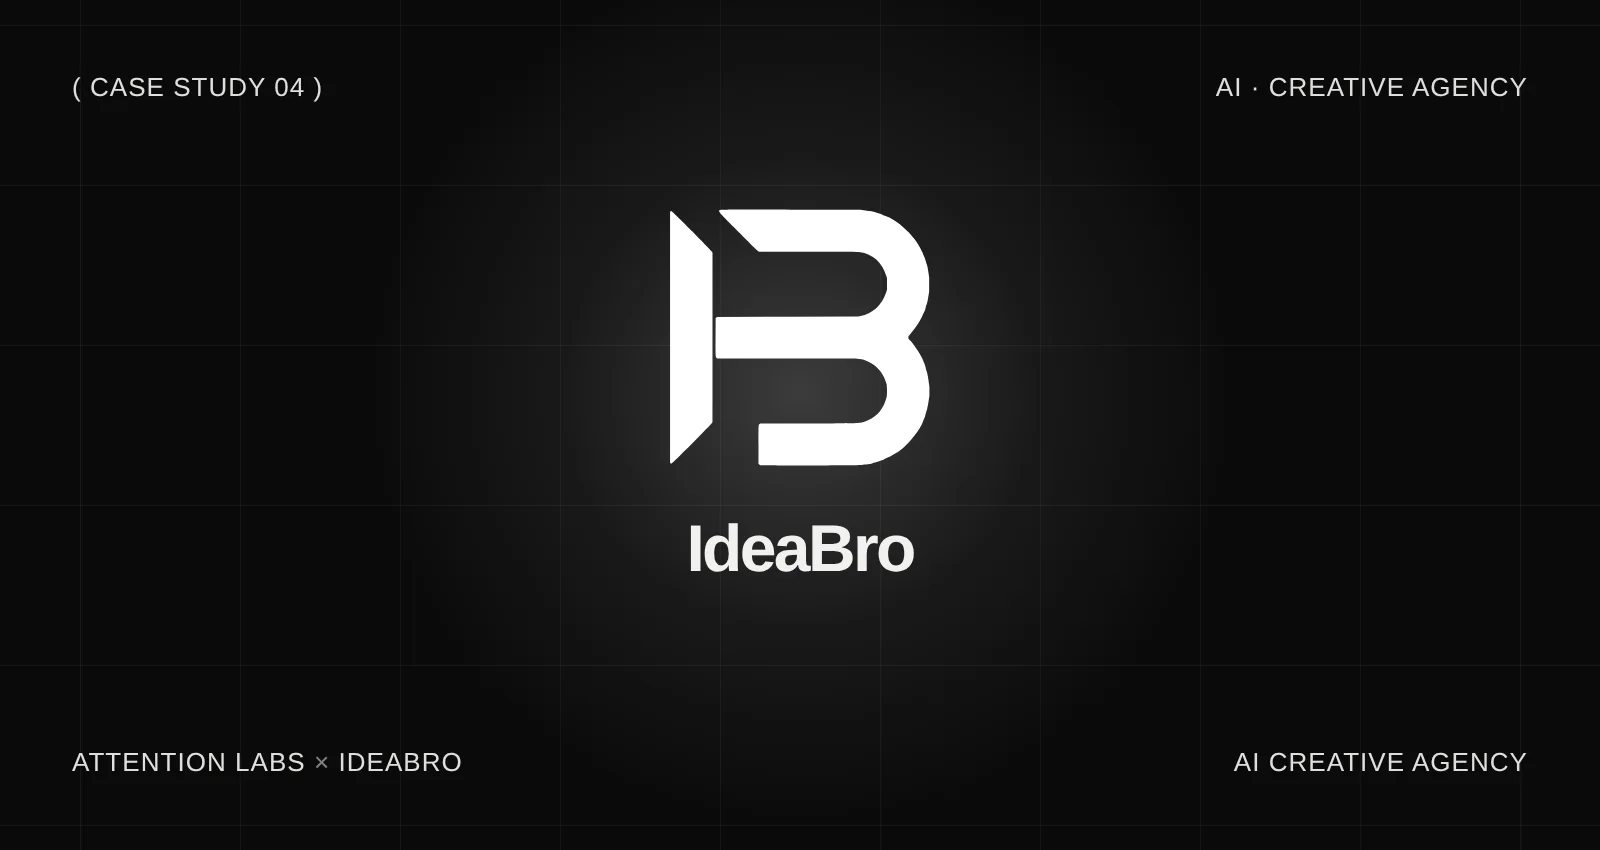
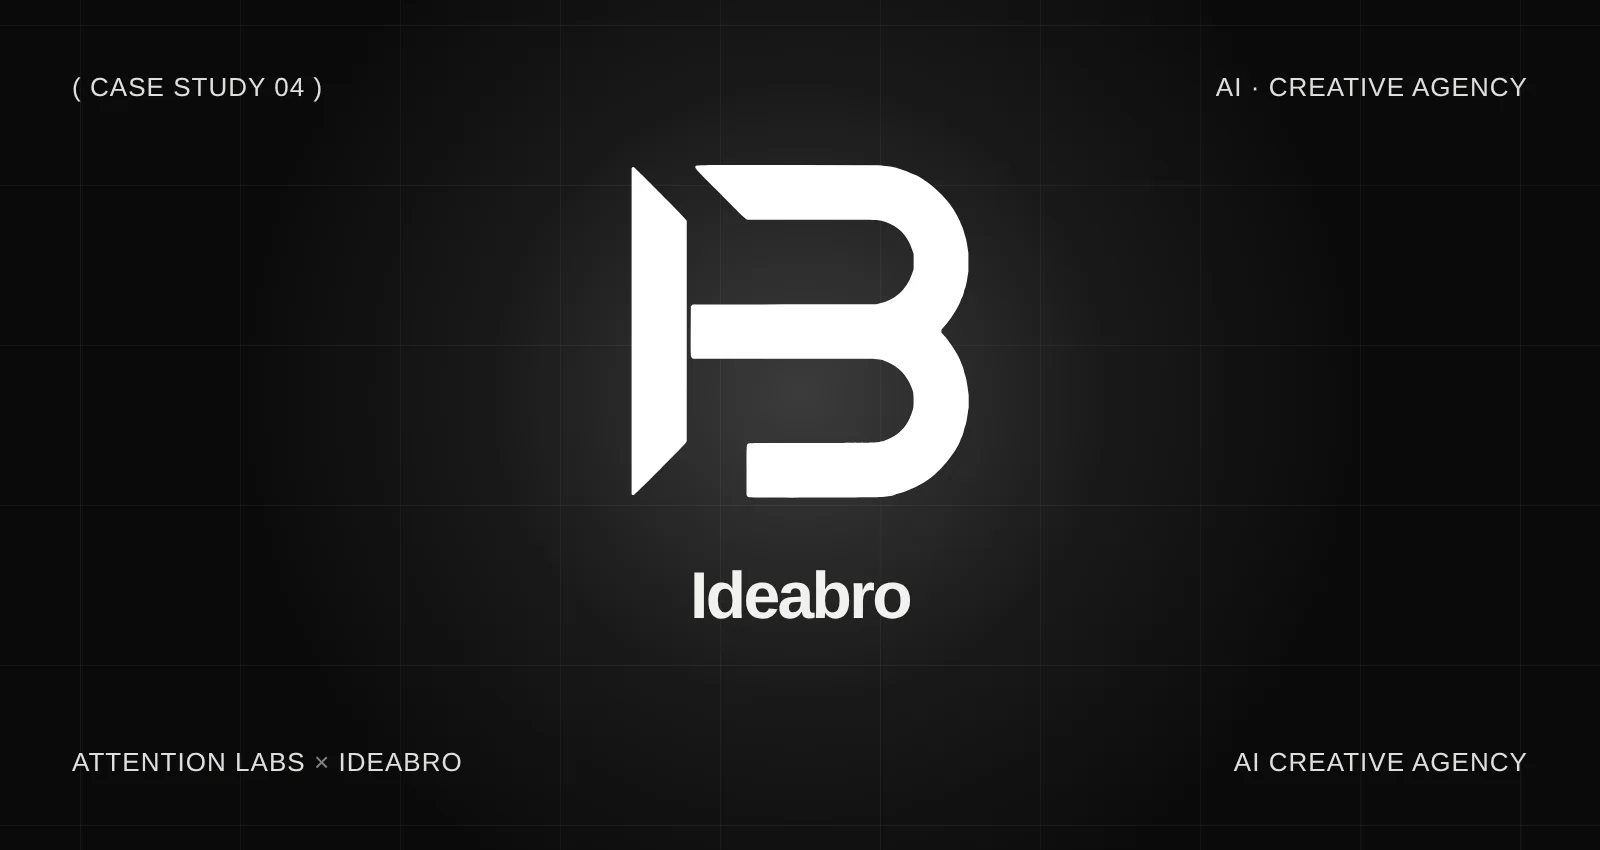
Spell Ideabro with a lowercase b
Update the client name in the case study copy, page titles and both
Ideabro cover images.

Claude-Session: https://claude.ai/code/session_01SGFKi4VfWtXzyXsmJPxadf

Changed region(s): [[0.375, 0.1835, 0.625, 0.7341]]

diff --git a/dist/case-studies/ideabro/index.html b/dist/case-studies/ideabro/index.html
@@ -3,14 +3,14 @@
 <head>
 <meta charset="utf-8">
 <meta name="viewport" content="width=device-width, initial-scale=1, viewport-fit=cover">
-<title>IdeaBro — Attention Labs</title>
-<meta name="description" content="IdeaBro: Showing what an AI creative agency can do — with content that proves it.">
+<title>Ideabro — Attention Labs</title>
+<meta name="description" content="Ideabro: Showing what an AI creative agency can do — with content that proves it.">
 <meta name="theme-color" content="#F1F1EF">
 <link rel="canonical" href="https://www.attentionlabs.com/case-studies/ideabro/">
 <meta property="og:type" content="website">
 <meta property="og:site_name" content="Attention Labs">
-<meta property="og:title" content="IdeaBro — Attention Labs">
-<meta property="og:description" content="IdeaBro: Showing what an AI creative agency can do — with content that proves it.">
+<meta property="og:title" content="Ideabro — Attention Labs">
+<meta property="og:description" content="Ideabro: Showing what an AI creative agency can do — with content that proves it.">
 <meta property="og:url" content="https://www.attentionlabs.com/case-studies/ideabro/">
 <meta property="og:image" content="https://www.attentionlabs.com/assets/img/og.png">
 <meta name="twitter:card" content="summary_large_image">
@@ -19,12 +19,12 @@
 <link rel="apple-touch-icon" href="/assets/img/apple-touch-icon.png">
 <link rel="manifest" href="/site.webmanifest">
 <link rel="preload" href="/assets/fonts/inter-tight-latin.woff2" as="font" type="font/woff2" crossorigin>
-<link rel="stylesheet" href="/assets/css/style.css?v=3fff7aef">
+<link rel="stylesheet" href="/assets/css/style.css?v=8ad08556">
 <script>document.documentElement.classList.add('js');</script>
 <script type="speculationrules">{"prerender":[{"where":{"and":[{"href_matches":"/*"},{"not":{"selector_matches":"[target=_blank], [download]"}}]},"eagerness":"moderate"}]}</script>
 
 </head>
-<body class="" data-page="IdeaBro">
+<body class="" data-page="Ideabro">
 <a class="skip" href="#main">Skip to content</a>
 
 <div class="cursor" aria-hidden="true"><span class="cursor__label" data-cursor-label></span></div>
@@ -68,18 +68,18 @@
 <section class="cs-hero container">
   <a class="back" href="/case-studies/"><span class="back__ico"><svg class="ico" viewBox="0 0 24 24" aria-hidden="true"><path d="M4 12h15M13 6l6 6-6 6" fill="none" stroke="currentColor" stroke-width="1.8" stroke-linecap="square"/></svg></span><span class="roll"><span class="roll__in" data-text="All case studies">All case studies</span></span></a>
   <div class="phero__top"><span class="label">( Case study 04 )</span><span class="label">AI · Creative agency</span></div>
-  <img class="cs-logo" src="/assets/img/logos/ideabro.svg" alt="IdeaBro logo" data-reveal="fade">
-  <h1 class="cs-hero__title" data-split>IdeaBro</h1>
+  <img class="cs-logo" src="/assets/img/logos/ideabro.svg" alt="Ideabro logo" data-reveal="fade" style="--s:1.3">
+  <h1 class="cs-hero__title" data-split>Ideabro</h1>
   <div class="phero__row"><span></span><p class="phero__lead" data-reveal="fade">Showing what an AI creative agency can do — with content that proves it.</p></div>
   <dl class="cs-meta" data-reveal="fade">
-    <div><dt>Client</dt><dd>IdeaBro</dd></div>
+    <div><dt>Client</dt><dd>Ideabro</dd></div>
     <div><dt>Sector</dt><dd>AI · Creative agency</dd></div>
     <div><dt>Platforms</dt><dd>Instagram · YouTube</dd></div>
     <div><dt>Services</dt><dd>Content strategy, Short-form video, Social growth, Brand storytelling</dd></div>
   </dl>
 </section>
 
-<div class="cs-cover container"><div class="media media--tall" data-reveal="img"><img src="/assets/img/covers/ideabro-wide.webp" alt="IdeaBro" fetchpriority="high"></div></div>
+<div class="cs-cover container"><div class="media media--tall" data-reveal="img"><img src="/assets/img/covers/ideabro-wide.webp" alt="Ideabro" fetchpriority="high"></div></div>
 
 <section class="cs-metrics cs-metrics--facts container" aria-label="Snapshot">
   <div class="stat" data-reveal="fade" style="--d:0s"><span class="stat__idx">01</span><span class="stat__fact">AI creative</span><span class="stat__label">Sector</span></div><div class="stat" data-reveal="fade" style="--d:0.08s"><span class="stat__idx">02</span><span class="stat__fact">Instagram · YouTube</span><span class="stat__label">Platforms</span></div><div class="stat" data-reveal="fade" style="--d:0.16s"><span class="stat__idx">03</span><span class="stat__fact">Showcases & BTS</span><span class="stat__label">Formats</span></div><div class="stat" data-reveal="fade" style="--d:0.24s"><span class="stat__idx">04</span><span class="stat__fact">Growth engine</span><span class="stat__label">Engagement</span></div>
@@ -89,7 +89,7 @@
   
   <div class="cs-sec">
     <div class="cs-sec__k"><span class="label">( 01 — The Challenge )</span></div>
-    <p class="cs-sec__text" data-reveal="fade">AI creative is everywhere, and most of it looks the same. IdeaBro needed content that showcased its quality, set it apart from generic AI output and brought in the right clients.</p>
+    <p class="cs-sec__text" data-reveal="fade">AI creative is everywhere, and most of it looks the same. Ideabro needed content that showcased its quality, set it apart from generic AI output and brought in the right clients.</p>
   </div>
   <div class="cs-sec">
     <div class="cs-sec__k"><span class="label">( 02 — The Strategy )</span></div>
@@ -97,7 +97,7 @@
   </div>
   <div class="cs-sec">
     <div class="cs-sec__k"><span class="label">( 03 — The Results )</span></div>
-    <p class="cs-sec__text" data-reveal="fade">A sharper brand presence and a growing audience across IdeaBro’s channels, with content that works as both a portfolio and a pipeline.</p>
+    <p class="cs-sec__text" data-reveal="fade">A sharper brand presence and a growing audience across Ideabro’s channels, with content that works as both a portfolio and a pipeline.</p>
   </div>
 </section>
 

diff --git a/dist/case-studies/index.html b/dist/case-studies/index.html
@@ -4,13 +4,13 @@
 <meta charset="utf-8">
 <meta name="viewport" content="width=device-width, initial-scale=1, viewport-fit=cover">
 <title>Case Studies — Attention Labs</title>
-<meta name="description" content="Case studies: how Attention Labs grows creators and companies across YouTube and Instagram — Shivender Kanwar, Fitfinfluencer, Omnibook, IdeaBro and Alpha Premier League.">
+<meta name="description" content="Case studies: how Attention Labs grows creators and companies across YouTube and Instagram — Shivender Kanwar, Fitfinfluencer, Omnibook, Ideabro and Alpha Premier League.">
 <meta name="theme-color" content="#F1F1EF">
 <link rel="canonical" href="https://www.attentionlabs.com/case-studies/">
 <meta property="og:type" content="website">
 <meta property="og:site_name" content="Attention Labs">
 <meta property="og:title" content="Case Studies — Attention Labs">
-<meta property="og:description" content="Case studies: how Attention Labs grows creators and companies across YouTube and Instagram — Shivender Kanwar, Fitfinfluencer, Omnibook, IdeaBro and Alpha Premier League.">
+<meta property="og:description" content="Case studies: how Attention Labs grows creators and companies across YouTube and Instagram — Shivender Kanwar, Fitfinfluencer, Omnibook, Ideabro and Alpha Premier League.">
 <meta property="og:url" content="https://www.attentionlabs.com/case-studies/">
 <meta property="og:image" content="https://www.attentionlabs.com/assets/img/og.png">
 <meta name="twitter:card" content="summary_large_image">
@@ -19,7 +19,7 @@
 <link rel="apple-touch-icon" href="/assets/img/apple-touch-icon.png">
 <link rel="manifest" href="/site.webmanifest">
 <link rel="preload" href="/assets/fonts/inter-tight-latin.woff2" as="font" type="font/woff2" crossorigin>
-<link rel="stylesheet" href="/assets/css/style.css?v=3fff7aef">
+<link rel="stylesheet" href="/assets/css/style.css?v=8ad08556">
 <script>document.documentElement.classList.add('js');</script>
 <script type="speculationrules">{"prerender":[{"where":{"and":[{"href_matches":"/*"},{"not":{"selector_matches":"[target=_blank], [download]"}}]},"eagerness":"moderate"}]}</script>
 
@@ -101,11 +101,11 @@
     <span class="cs-row__img"><img src="/assets/img/covers/omnibook.webp" alt="Omnibook" loading="lazy" decoding="async"></span>
   </a><a class="cs-row" href="/case-studies/ideabro/" data-hover-img="/assets/img/covers/ideabro.webp" data-reveal="fade" style="--d:0.18s">
     <span class="cs-row__idx">04</span>
-    <span class="cs-row__title"><span>IdeaBro</span></span>
+    <span class="cs-row__title"><span>Ideabro</span></span>
     <span class="cs-row__cat">AI · Creative agency</span>
     <span class="cs-row__metric"><b>AI creative</b> agency growth</span>
     <span class="cs-row__go"><svg class="ico" viewBox="0 0 24 24" aria-hidden="true"><path d="M7 17 17 7M8 7h9v9" fill="none" stroke="currentColor" stroke-width="1.8" stroke-linecap="square"/></svg></span>
-    <span class="cs-row__img"><img src="/assets/img/covers/ideabro.webp" alt="IdeaBro" loading="lazy" decoding="async"></span>
+    <span class="cs-row__img"><img src="/assets/img/covers/ideabro.webp" alt="Ideabro" loading="lazy" decoding="async"></span>
   </a><a class="cs-row" href="/case-studies/alpha-premier-league/" data-hover-img="/assets/img/work/alpha-premier-league.webp" data-reveal="fade" style="--d:0.24s">
     <span class="cs-row__idx">05</span>
     <span class="cs-row__title"><span>Alpha Premier League</span></span>
@@ -139,8 +139,8 @@
 </article>
 <article class="card" data-reveal="fade" style="--d:0.12s">
   <a href="/case-studies/ideabro/" data-cursor="View">
-    <div class="card__media media" data-reveal="img"><img src="/assets/img/covers/ideabro.webp" alt="IdeaBro" loading="lazy" decoding="async"></div>
-    <div class="card__meta"><span class="card__name">IdeaBro</span><span class="card__tag">AI · Creative agency</span><span class="card__kind">Case study</span></div>
+    <div class="card__media media" data-reveal="img"><img src="/assets/img/covers/ideabro.webp" alt="Ideabro" loading="lazy" decoding="async"></div>
+    <div class="card__meta"><span class="card__name">Ideabro</span><span class="card__tag">AI · Creative agency</span><span class="card__kind">Case study</span></div>
   </a>
 </article>
 <article class="card" data-reveal="fade" style="--d:0s">

diff --git a/dist/index.html b/dist/index.html
@@ -19,7 +19,7 @@
 <link rel="apple-touch-icon" href="/assets/img/apple-touch-icon.png">
 <link rel="manifest" href="/site.webmanifest">
 <link rel="preload" href="/assets/fonts/inter-tight-latin.woff2" as="font" type="font/woff2" crossorigin>
-<link rel="stylesheet" href="/assets/css/style.css?v=3fff7aef">
+<link rel="stylesheet" href="/assets/css/style.css?v=8ad08556">
 <script>document.documentElement.classList.add('js');</script>
 <script type="speculationrules">{"prerender":[{"where":{"and":[{"href_matches":"/*"},{"not":{"selector_matches":"[target=_blank], [download]"}}]},"eagerness":"moderate"}]}</script>
 <script type="application/ld+json">{"@context":"https://schema.org","@type":"Organization","name":"Attention Labs","url":"https://www.attentionlabs.com","email":"contact@attentionlabs.com","telephone":"+91 83739 35414","description":"Attention Labs is a content-led growth agency. We build owned media for founders, funds and brands — content that ranks, gets shared and generates demand while you sleep.","address":{"@type":"PostalAddress","streetAddress":"2/572, Rashmikhand, Shardanagar","addressLocality":"Lucknow","addressRegion":"Uttar Pradesh","addressCountry":"IN"},"sameAs":["https://www.instagram.com/attention.labs/","https://www.youtube.com/@AttentionLabs-br","https://www.linkedin.com/company/attentionlabscom/"]}</script>
@@ -247,8 +247,8 @@
 </article>
 <article class="card" data-reveal="fade" style="--d:0.12s">
   <a href="/case-studies/ideabro/" data-cursor="View">
-    <div class="card__media media" data-reveal="img"><img src="/assets/img/covers/ideabro.webp" alt="IdeaBro" loading="lazy" decoding="async"></div>
-    <div class="card__meta"><span class="card__name">IdeaBro</span><span class="card__tag">AI · Creative agency</span><span class="card__kind">Case study</span></div>
+    <div class="card__media media" data-reveal="img"><img src="/assets/img/covers/ideabro.webp" alt="Ideabro" loading="lazy" decoding="async"></div>
+    <div class="card__meta"><span class="card__name">Ideabro</span><span class="card__tag">AI · Creative agency</span><span class="card__kind">Case study</span></div>
   </a>
 </article>
 <article class="card" data-reveal="fade" style="--d:0s">

diff --git a/dist/case-studies/omnibook/index.html b/dist/case-studies/omnibook/index.html
@@ -19,7 +19,7 @@
 <link rel="apple-touch-icon" href="/assets/img/apple-touch-icon.png">
 <link rel="manifest" href="/site.webmanifest">
 <link rel="preload" href="/assets/fonts/inter-tight-latin.woff2" as="font" type="font/woff2" crossorigin>
-<link rel="stylesheet" href="/assets/css/style.css?v=3fff7aef">
+<link rel="stylesheet" href="/assets/css/style.css?v=8ad08556">
 <script>document.documentElement.classList.add('js');</script>
 <script type="speculationrules">{"prerender":[{"where":{"and":[{"href_matches":"/*"},{"not":{"selector_matches":"[target=_blank], [download]"}}]},"eagerness":"moderate"}]}</script>
 
@@ -113,8 +113,8 @@
 <section class="cs-next container">
   <a href="/case-studies/ideabro/" class="cs-next__link" data-cursor="Next">
     <span class="label">( Next case study )</span>
-    <span class="cs-next__title"><span>IdeaBro</span><span class="cs-next__ico"><svg class="ico" viewBox="0 0 24 24" aria-hidden="true"><path d="M7 17 17 7M8 7h9v9" fill="none" stroke="currentColor" stroke-width="1.8" stroke-linecap="square"/></svg></span></span>
-    <span class="cs-next__img media"><img src="/assets/img/covers/ideabro-wide.webp" alt="IdeaBro" loading="lazy" decoding="async"></span>
+    <span class="cs-next__title"><span>Ideabro</span><span class="cs-next__ico"><svg class="ico" viewBox="0 0 24 24" aria-hidden="true"><path d="M7 17 17 7M8 7h9v9" fill="none" stroke="currentColor" stroke-width="1.8" stroke-linecap="square"/></svg></span></span>
+    <span class="cs-next__img media"><img src="/assets/img/covers/ideabro-wide.webp" alt="Ideabro" loading="lazy" decoding="async"></span>
   </a>
 </section>
 

diff --git a/assets/css/style.css b/assets/css/style.css
@@ -576,7 +576,7 @@ html:not(.has-cursor) .tile__play { opacity: .9; transform: none; }
 .cs-metrics .stat__num { font-size: clamp(48px, 6vw, 104px); }
 .cs-metrics--facts .stat { row-gap: clamp(22px, 3vw, 44px); }
 .stat__fact { grid-column: 1 / -1; font-size: clamp(22px, 2.3vw, 38px); font-weight: 600; letter-spacing: -0.035em; line-height: 1.05; }
-.cs-logo { display: block; height: clamp(40px, 4.4vw, 64px); width: auto; margin: clamp(20px, 2.4vw, 32px) 0 -4px; }
+.cs-logo { display: block; height: calc(clamp(40px, 4.4vw, 64px) * var(--s, 1)); width: auto; margin: clamp(20px, 2.4vw, 32px) 0 -4px; }
 .cs-cover__btn { display: block; width: 100%; text-align: left; }
 .cs-cover__play { position: absolute; left: clamp(16px, 2vw, 28px); bottom: clamp(16px, 2vw, 28px); display: inline-flex; align-items: center; gap: 12px; padding: 6px 20px 6px 6px; border-radius: 99px; background: var(--bg); color: var(--ink); font-size: 15px; font-weight: 500; transition: background-color .4s var(--ease), transform .5s var(--ease-back); }
 .cs-cover__play i { width: 44px; height: 44px; border-radius: 50%; background: var(--ink); color: var(--bg); display: grid; place-items: center; }

diff --git a/dist/assets/css/style.css b/dist/assets/css/style.css
@@ -576,7 +576,7 @@ html:not(.has-cursor) .tile__play { opacity: .9; transform: none; }
 .cs-metrics .stat__num { font-size: clamp(48px, 6vw, 104px); }
 .cs-metrics--facts .stat { row-gap: clamp(22px, 3vw, 44px); }
 .stat__fact { grid-column: 1 / -1; font-size: clamp(22px, 2.3vw, 38px); font-weight: 600; letter-spacing: -0.035em; line-height: 1.05; }
-.cs-logo { display: block; height: clamp(40px, 4.4vw, 64px); width: auto; margin: clamp(20px, 2.4vw, 32px) 0 -4px; }
+.cs-logo { display: block; height: calc(clamp(40px, 4.4vw, 64px) * var(--s, 1)); width: auto; margin: clamp(20px, 2.4vw, 32px) 0 -4px; }
 .cs-cover__btn { display: block; width: 100%; text-align: left; }
 .cs-cover__play { position: absolute; left: clamp(16px, 2vw, 28px); bottom: clamp(16px, 2vw, 28px); display: inline-flex; align-items: center; gap: 12px; padding: 6px 20px 6px 6px; border-radius: 99px; background: var(--bg); color: var(--ink); font-size: 15px; font-weight: 500; transition: background-color .4s var(--ease), transform .5s var(--ease-back); }
 .cs-cover__play i { width: 44px; height: 44px; border-radius: 50%; background: var(--ink); color: var(--bg); display: grid; place-items: center; }

diff --git a/dist/404.html b/dist/404.html
@@ -19,7 +19,7 @@
 <link rel="apple-touch-icon" href="/assets/img/apple-touch-icon.png">
 <link rel="manifest" href="/site.webmanifest">
 <link rel="preload" href="/assets/fonts/inter-tight-latin.woff2" as="font" type="font/woff2" crossorigin>
-<link rel="stylesheet" href="/assets/css/style.css?v=3fff7aef">
+<link rel="stylesheet" href="/assets/css/style.css?v=8ad08556">
 <script>document.documentElement.classList.add('js');</script>
 <script type="speculationrules">{"prerender":[{"where":{"and":[{"href_matches":"/*"},{"not":{"selector_matches":"[target=_blank], [download]"}}]},"eagerness":"moderate"}]}</script>
 

diff --git a/dist/case-studies/alpha-premier-league/index.html b/dist/case-studies/alpha-premier-league/index.html
@@ -19,7 +19,7 @@
 <link rel="apple-touch-icon" href="/assets/img/apple-touch-icon.png">
 <link rel="manifest" href="/site.webmanifest">
 <link rel="preload" href="/assets/fonts/inter-tight-latin.woff2" as="font" type="font/woff2" crossorigin>
-<link rel="stylesheet" href="/assets/css/style.css?v=3fff7aef">
+<link rel="stylesheet" href="/assets/css/style.css?v=8ad08556">
 <script>document.documentElement.classList.add('js');</script>
 <script type="speculationrules">{"prerender":[{"where":{"and":[{"href_matches":"/*"},{"not":{"selector_matches":"[target=_blank], [download]"}}]},"eagerness":"moderate"}]}</script>
 

diff --git a/dist/case-studies/fitfinfluencer/index.html b/dist/case-studies/fitfinfluencer/index.html
@@ -19,7 +19,7 @@
 <link rel="apple-touch-icon" href="/assets/img/apple-touch-icon.png">
 <link rel="manifest" href="/site.webmanifest">
 <link rel="preload" href="/assets/fonts/inter-tight-latin.woff2" as="font" type="font/woff2" crossorigin>
-<link rel="stylesheet" href="/assets/css/style.css?v=3fff7aef">
+<link rel="stylesheet" href="/assets/css/style.css?v=8ad08556">
 <script>document.documentElement.classList.add('js');</script>
 <script type="speculationrules">{"prerender":[{"where":{"and":[{"href_matches":"/*"},{"not":{"selector_matches":"[target=_blank], [download]"}}]},"eagerness":"moderate"}]}</script>
 

diff --git a/dist/case-studies/shivender-kanwar/index.html b/dist/case-studies/shivender-kanwar/index.html
@@ -19,7 +19,7 @@
 <link rel="apple-touch-icon" href="/assets/img/apple-touch-icon.png">
 <link rel="manifest" href="/site.webmanifest">
 <link rel="preload" href="/assets/fonts/inter-tight-latin.woff2" as="font" type="font/woff2" crossorigin>
-<link rel="stylesheet" href="/assets/css/style.css?v=3fff7aef">
+<link rel="stylesheet" href="/assets/css/style.css?v=8ad08556">
 <script>document.documentElement.classList.add('js');</script>
 <script type="speculationrules">{"prerender":[{"where":{"and":[{"href_matches":"/*"},{"not":{"selector_matches":"[target=_blank], [download]"}}]},"eagerness":"moderate"}]}</script>
 

diff --git a/dist/contact/index.html b/dist/contact/index.html
@@ -19,7 +19,7 @@
 <link rel="apple-touch-icon" href="/assets/img/apple-touch-icon.png">
 <link rel="manifest" href="/site.webmanifest">
 <link rel="preload" href="/assets/fonts/inter-tight-latin.woff2" as="font" type="font/woff2" crossorigin>
-<link rel="stylesheet" href="/assets/css/style.css?v=3fff7aef">
+<link rel="stylesheet" href="/assets/css/style.css?v=8ad08556">
 <script>document.documentElement.classList.add('js');</script>
 <script type="speculationrules">{"prerender":[{"where":{"and":[{"href_matches":"/*"},{"not":{"selector_matches":"[target=_blank], [download]"}}]},"eagerness":"moderate"}]}</script>
 

diff --git a/dist/services/index.html b/dist/services/index.html
@@ -19,7 +19,7 @@
 <link rel="apple-touch-icon" href="/assets/img/apple-touch-icon.png">
 <link rel="manifest" href="/site.webmanifest">
 <link rel="preload" href="/assets/fonts/inter-tight-latin.woff2" as="font" type="font/woff2" crossorigin>
-<link rel="stylesheet" href="/assets/css/style.css?v=3fff7aef">
+<link rel="stylesheet" href="/assets/css/style.css?v=8ad08556">
 <script>document.documentElement.classList.add('js');</script>
 <script type="speculationrules">{"prerender":[{"where":{"and":[{"href_matches":"/*"},{"not":{"selector_matches":"[target=_blank], [download]"}}]},"eagerness":"moderate"}]}</script>
 
